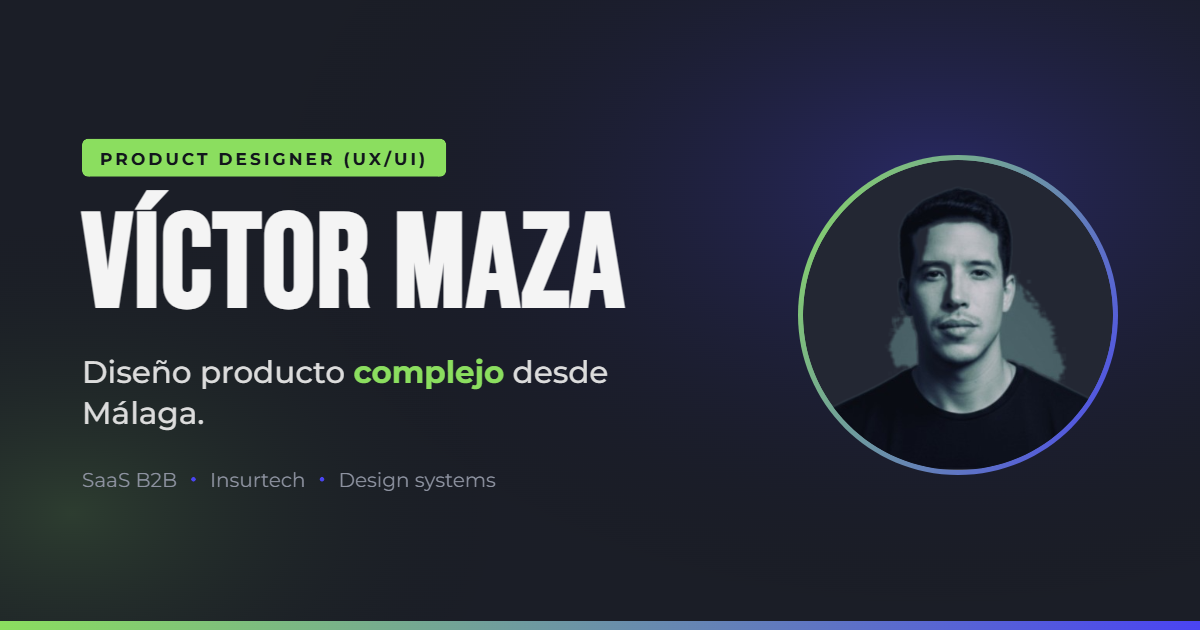
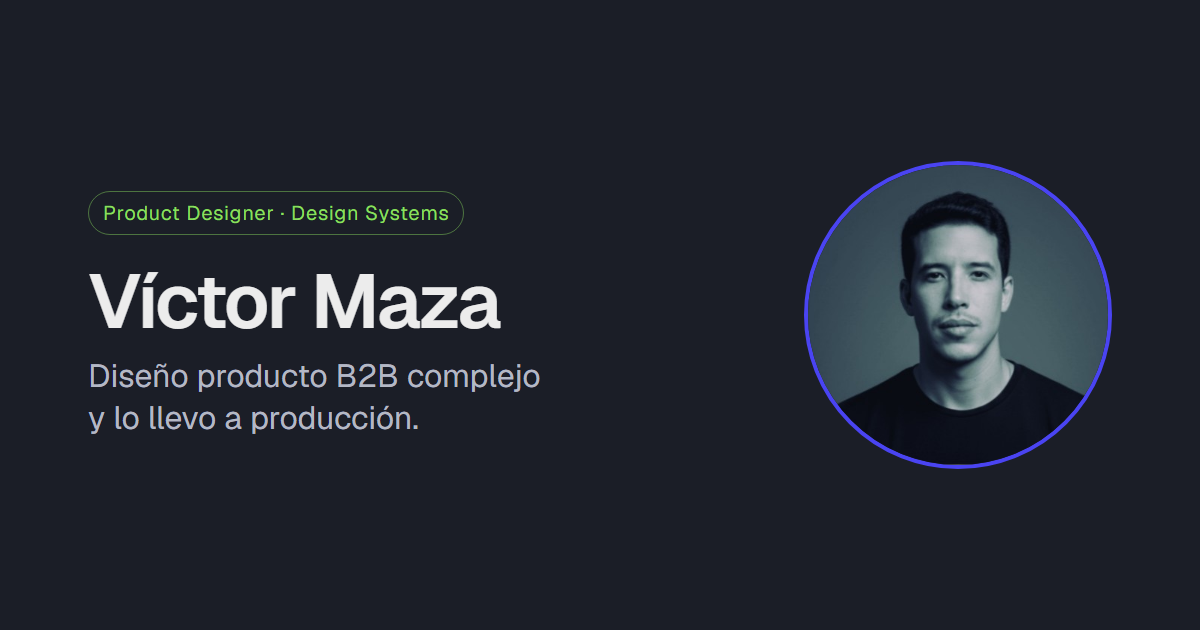
Regenera la imagen de previsualización con el rol nuevo

diff --git a/docs/README.es.md b/docs/README.es.md
@@ -78,5 +78,5 @@ reabre el banner.
 `<title>`, description, canonical, Open Graph y `twitter:card` se definen con
 `metadata` en cada `page.tsx` (`lib/seo.ts`). JSON-LD `Person` en el layout y
 `CreativeWork` en cada caso. `robots.txt` y `sitemap.xml` se generan desde `app/`.
-La imagen de previsualización es `public/assets/og.png` (pendiente de regenerar
-con el sistema nuevo).
+La imagen de previsualización es `public/assets/og.png`, generada con
+`node scripts/og.mjs`.
